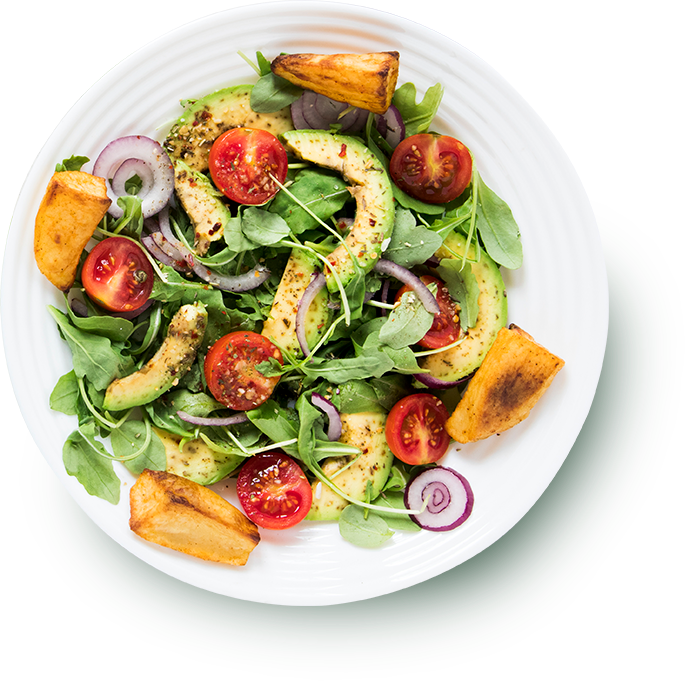
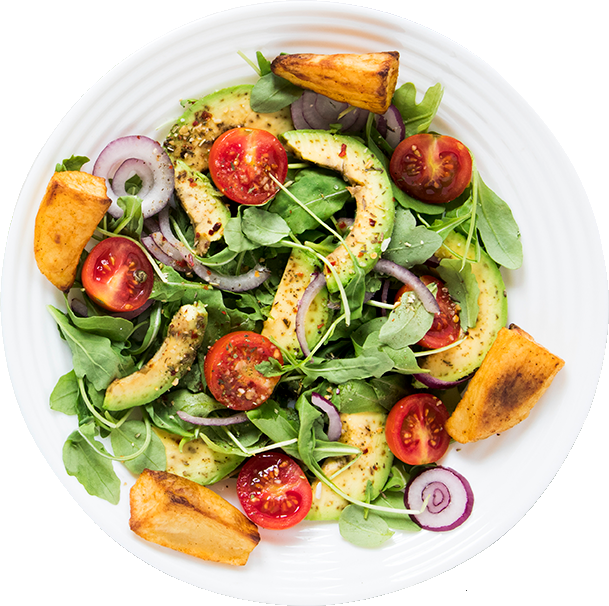
add shadow

diff --git a/src/views/index.html b/src/views/index.html
@@ -34,14 +34,16 @@
         <div class="wrapper">
             <div class="main">
                 <div class="main-text">
-                    <div class="title">Здоровая еда -<br><span>это просто</span>!</div>
+                    <h1 class="title">Здоровая еда -<br><span>это просто</span>!</h1>
                     <div class="ml">
                         <p class="main-text__description">Сеть магазинов полезных продуктов питания, производство которых основано на&nbsp;принципах и&nbsp;стандартах органического чистых продуктов</p>
                         <a href="" class="btn">Перейти в каталог</a>
                     </div>
                 </div>
                 <div class="main-visual">
-                    <img src="../img/image-main.png" alt="">
+                    <div class="main-visual__image">
+                        <img src="../img/image-main.png" alt="">
+                    </div>
                 </div>
             </div>
         </div>

diff --git a/src/blocks/modules/header/header.scss b/src/blocks/modules/header/header.scss
@@ -5,6 +5,7 @@
     justify-content: space-between;
     align-items: center;
     padding-top: 40px;
+    padding-bottom: 46px;
     &-item {
         display: flex;
         justify-content: space-between;
@@ -14,6 +15,7 @@
         text-decoration: none;
         color: $gray;
         font-weight: 500;
+        letter-spacing: 0.075rem;
         transition: 0.3s ease; 
         &:hover {
             color: $orange;
@@ -25,7 +27,7 @@
         position: relative;
         width: 2.5rem;
         height: 2.5rem;
-        margin-left: 82px;
+        margin-left: 80px;
         &__button {
             width: 2.5rem;
             height: 2.5rem;

diff --git a/src/styles/main.scss b/src/styles/main.scss
@@ -64,4 +64,18 @@ body {
             margin-bottom: 77px;
         }
     }
+    &-visual {
+        border: 1px solid rgba($gray, $alpha);
+        border-radius: 100%;
+        padding: 53px;
+        &__image {
+            border: 1px solid rgba($gray, $alpha);
+            border-radius: 100%;
+            padding: 21px;
+            img {
+                border-radius: 100%;
+                box-shadow: 15px 48px 42px 0px rgba($gray, $alpha);
+            }
+        }
+    }
 }

diff --git a/src/styles/helpers/_variables.scss b/src/styles/helpers/_variables.scss
@@ -1,3 +1,4 @@
 $gray: #27300f;
 $orange: #d26a22;
 $white: #ffffff;
+$alpha: 0.4;
